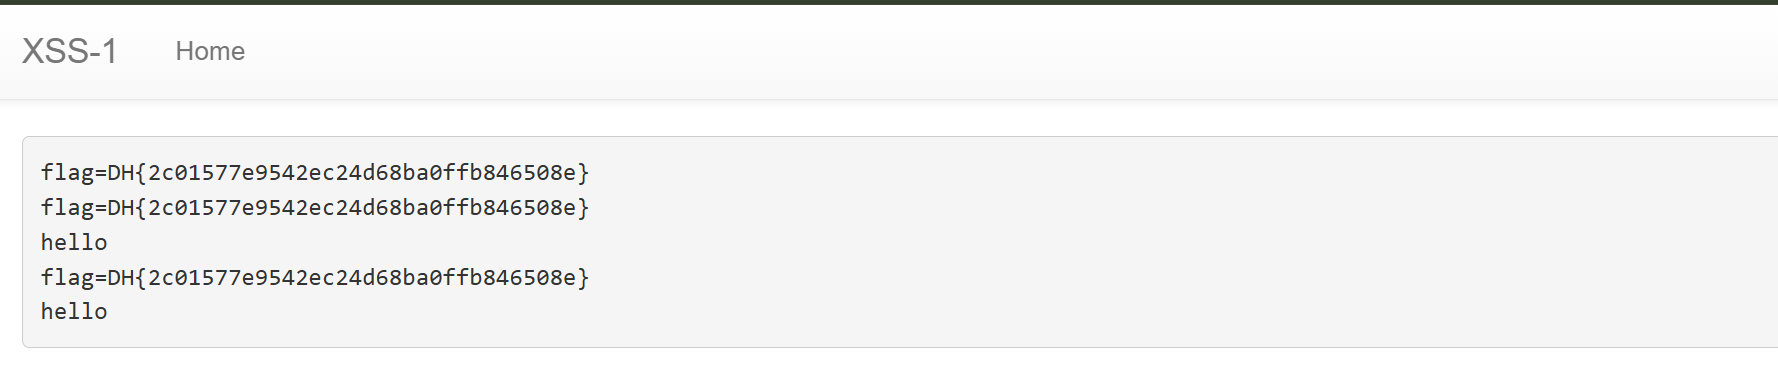
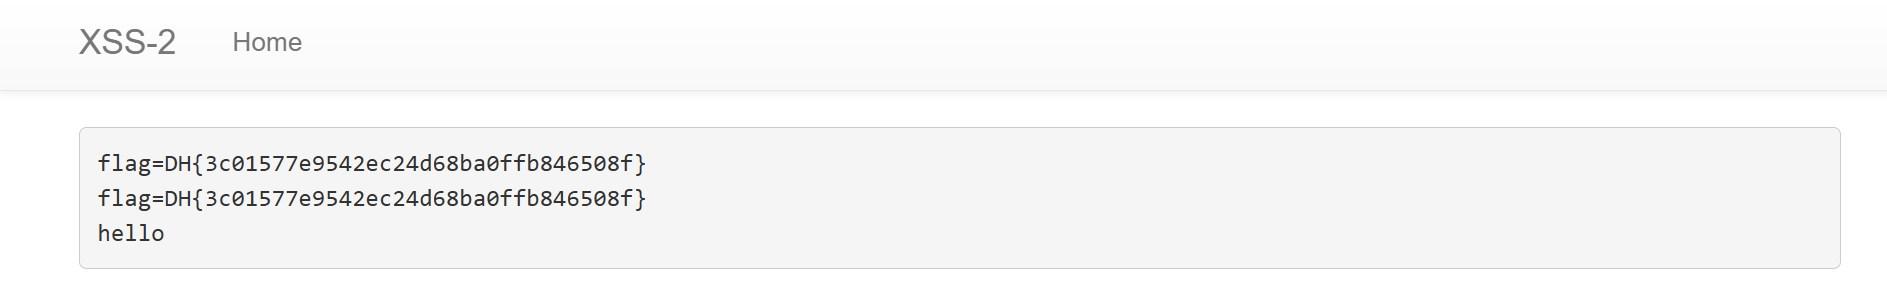
how

diff --git a/_posts/2026-06-02-xss.md b/_posts/2026-06-02-xss.md
@@ -74,5 +74,7 @@ def memo():
 
 `/memo`는 입력으로 받아 memo_text에 누적시키고 이를 파라미터 ?memo에 넣어서 memo.html을 반환한다.
 ### 익스플로잇
-![flagGet](/assets/img/posts/xss/flag.png)
+![flag](/assets/img/posts/xss/flag.png)
+_그림 1. XSS-2 flag겟
+
 결국 XSS-1, XSS-2 모두 `/flag`에서 사용자의 입력값을 받는 파라미터 param=[입력값]에 JS가 실행되도록 HTML태그를 주입하여 cookie값을 `/memo`에 출력되게 하면 된다. 두 문제 모두 <img src=x onerror="fetch('/memo?memo='+document.cookie);"> 를 주입하면 플래그를 얻을수 있다. 물론, XSS-1 문제는 script태그가 작동하기 때문에 <script>location.href="/memo?memo="+document.cookie</script> 처럼 페이로드를 작성해도 FLAG를 얻을수 있을 것이다.
